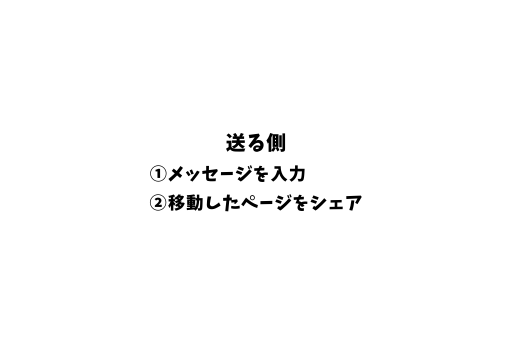
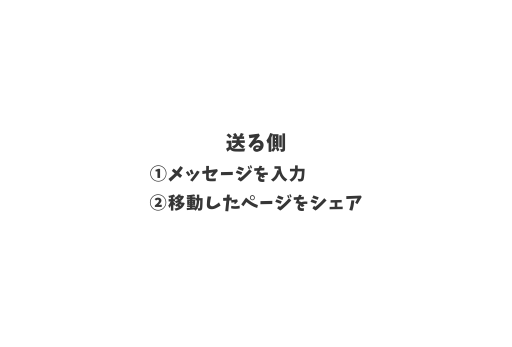
Add: 全体のテキストカラーを統一

Changed region(s): [[0.2812, 0.5476, 0.7188, 0.6052], [0.2812, 0.4611, 0.5938, 0.5187], [0.4375, 0.3746, 0.5625, 0.4323]]

diff --git a/app/assets/stylesheets/static_pages.scss b/app/assets/stylesheets/static_pages.scss
@@ -20,6 +20,7 @@
 }
 
 .main h2 {
+  color: rgb(54, 54, 54);
   padding-top: 30px;
 }
 
@@ -47,6 +48,7 @@
 }
 
 .privacy {
+  color: rgb(54, 54, 54);
   text-align: left;
   word-break: break-all;
   margin-top: -20px;
@@ -54,6 +56,7 @@
 }
 
 .terms {
+  color: rgb(54, 54, 54);
   text-align: left;
   margin-top: 15px;
   margin-bottom: 40px;
@@ -61,6 +64,7 @@
 
 .guide-text {
   margin-top: 15px;
+  color: rgb(54, 54, 54);
 }
 
 .guide-send {
@@ -79,5 +83,6 @@
 .sample-description {
   margin-top: -190px;
   margin-bottom: 50px;
+  color: rgb(54, 54, 54);
 }
 

diff --git a/app/assets/stylesheets/shared.scss b/app/assets/stylesheets/shared.scss
@@ -122,6 +122,7 @@
 }
 
 .copy-right {
+  color: rgb(54, 54, 54);
   font-size: 12px;
   margin-top: -5px;
   padding-bottom: 5px;
@@ -146,11 +147,11 @@
 
 .footer-link {
   text-decoration: none;
-  color: rgb(0, 0, 0) ;
+  color: rgb(54, 54, 54);
   margin-right: 50px;
   margin-left: 50px;
 }
 
 .footer-link:hover {
-  color: rgb(95, 95, 95) ; 
+  color: rgb(95, 95, 95); 
 }

diff --git a/app/assets/stylesheets/messages.scss b/app/assets/stylesheets/messages.scss
@@ -9,3 +9,7 @@
 .text-counter {
   margin-bottom: 10px;
 }
+
+.message {
+  color: rgb(54, 54, 54);
+}
